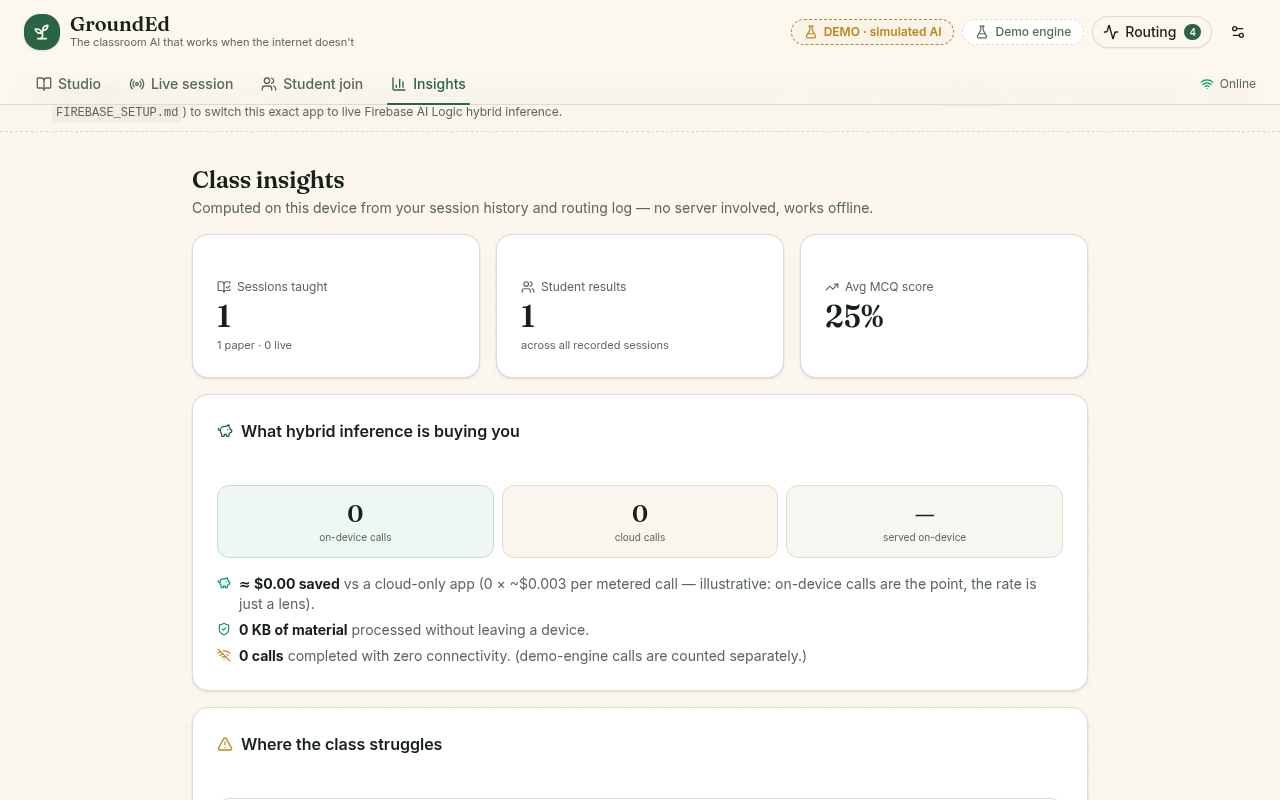
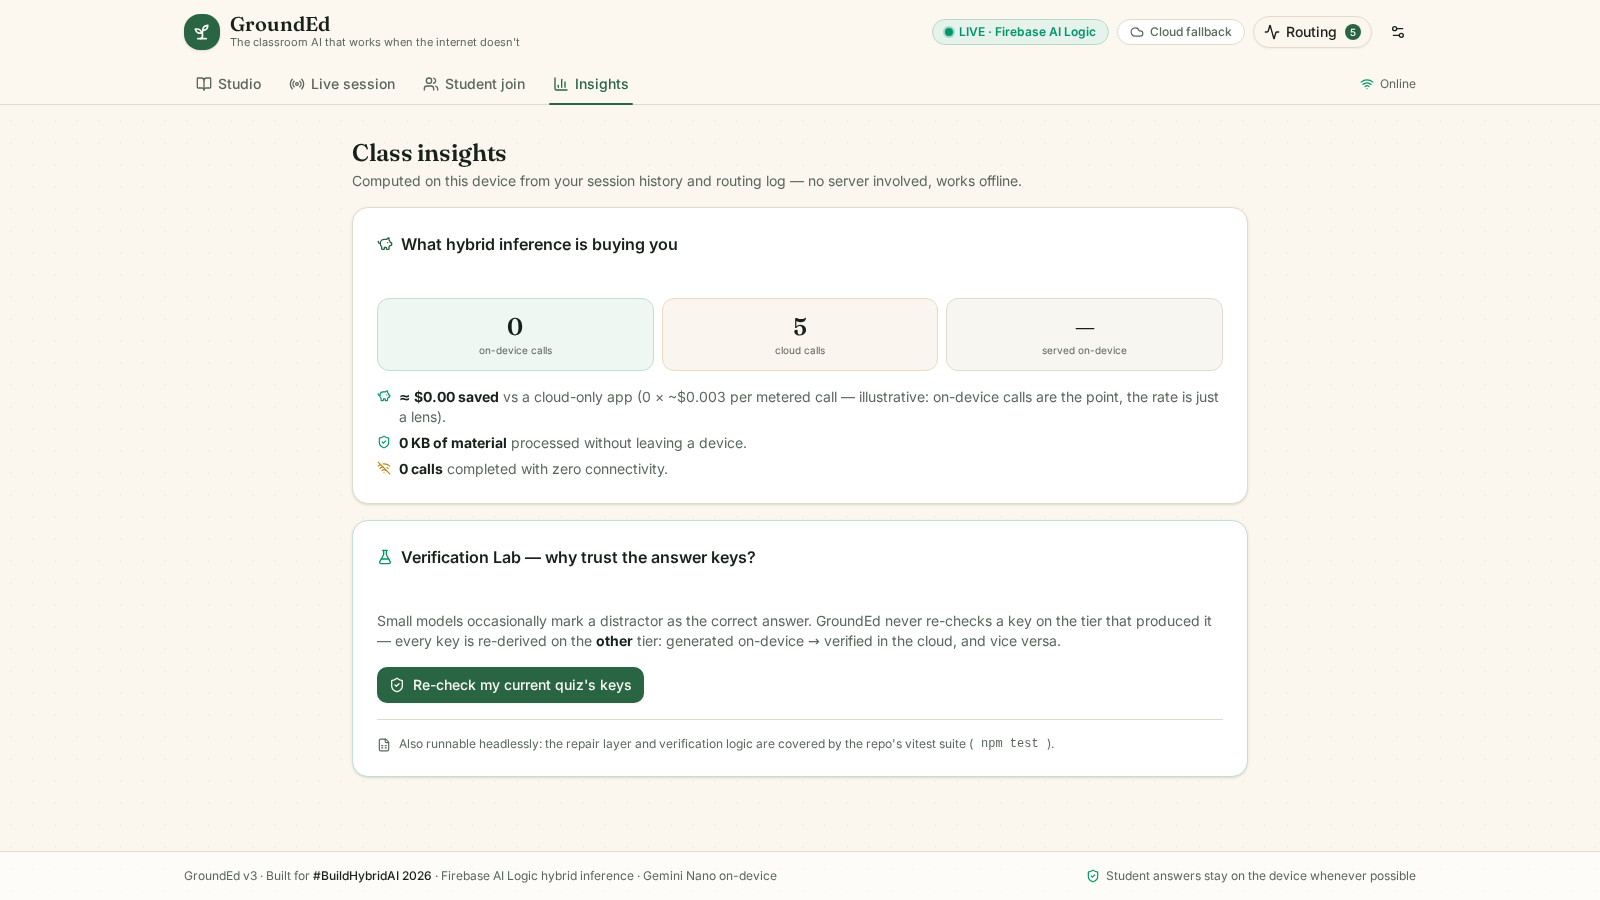
docs: production screenshots (insights/verification/paper) + 3.0.1 changelog

diff --git a/CHANGELOG.md b/CHANGELOG.md
@@ -2,6 +2,20 @@
 
 All notable changes to GroundEd are documented here.
 
+## 3.0.1 — production deploy + hydration fix (Nov 19, 2026)
+
+- **Live on production**: v3 "Classroom OS" deployed to
+  https://grounded-hybrid.web.app and verified with the full 29-check E2E
+  suite against production (LIVE generation, live session, AI grading,
+  offline submit + sync, offline reload) — 29/29.
+- **Fixed**: React hydration error #418 on reload with saved data. The
+  Zustand store initialized the persisted routing log / session history
+  from localStorage during store creation, so the first client render
+  diverged from the prerendered HTML. Persisted slices now start empty
+  and rehydrate after mount (`rehydratePersisted()` in AppShell).
+- Screenshots refreshed from the production app (incl. new: Verification
+  Lab result, Insights with a real graded session).
+
 ## 3.0.0 — "Classroom OS" (Nov 19, 2026)
 
 GroundEd grows from a teaching kit into the teacher's whole workflow: paper
